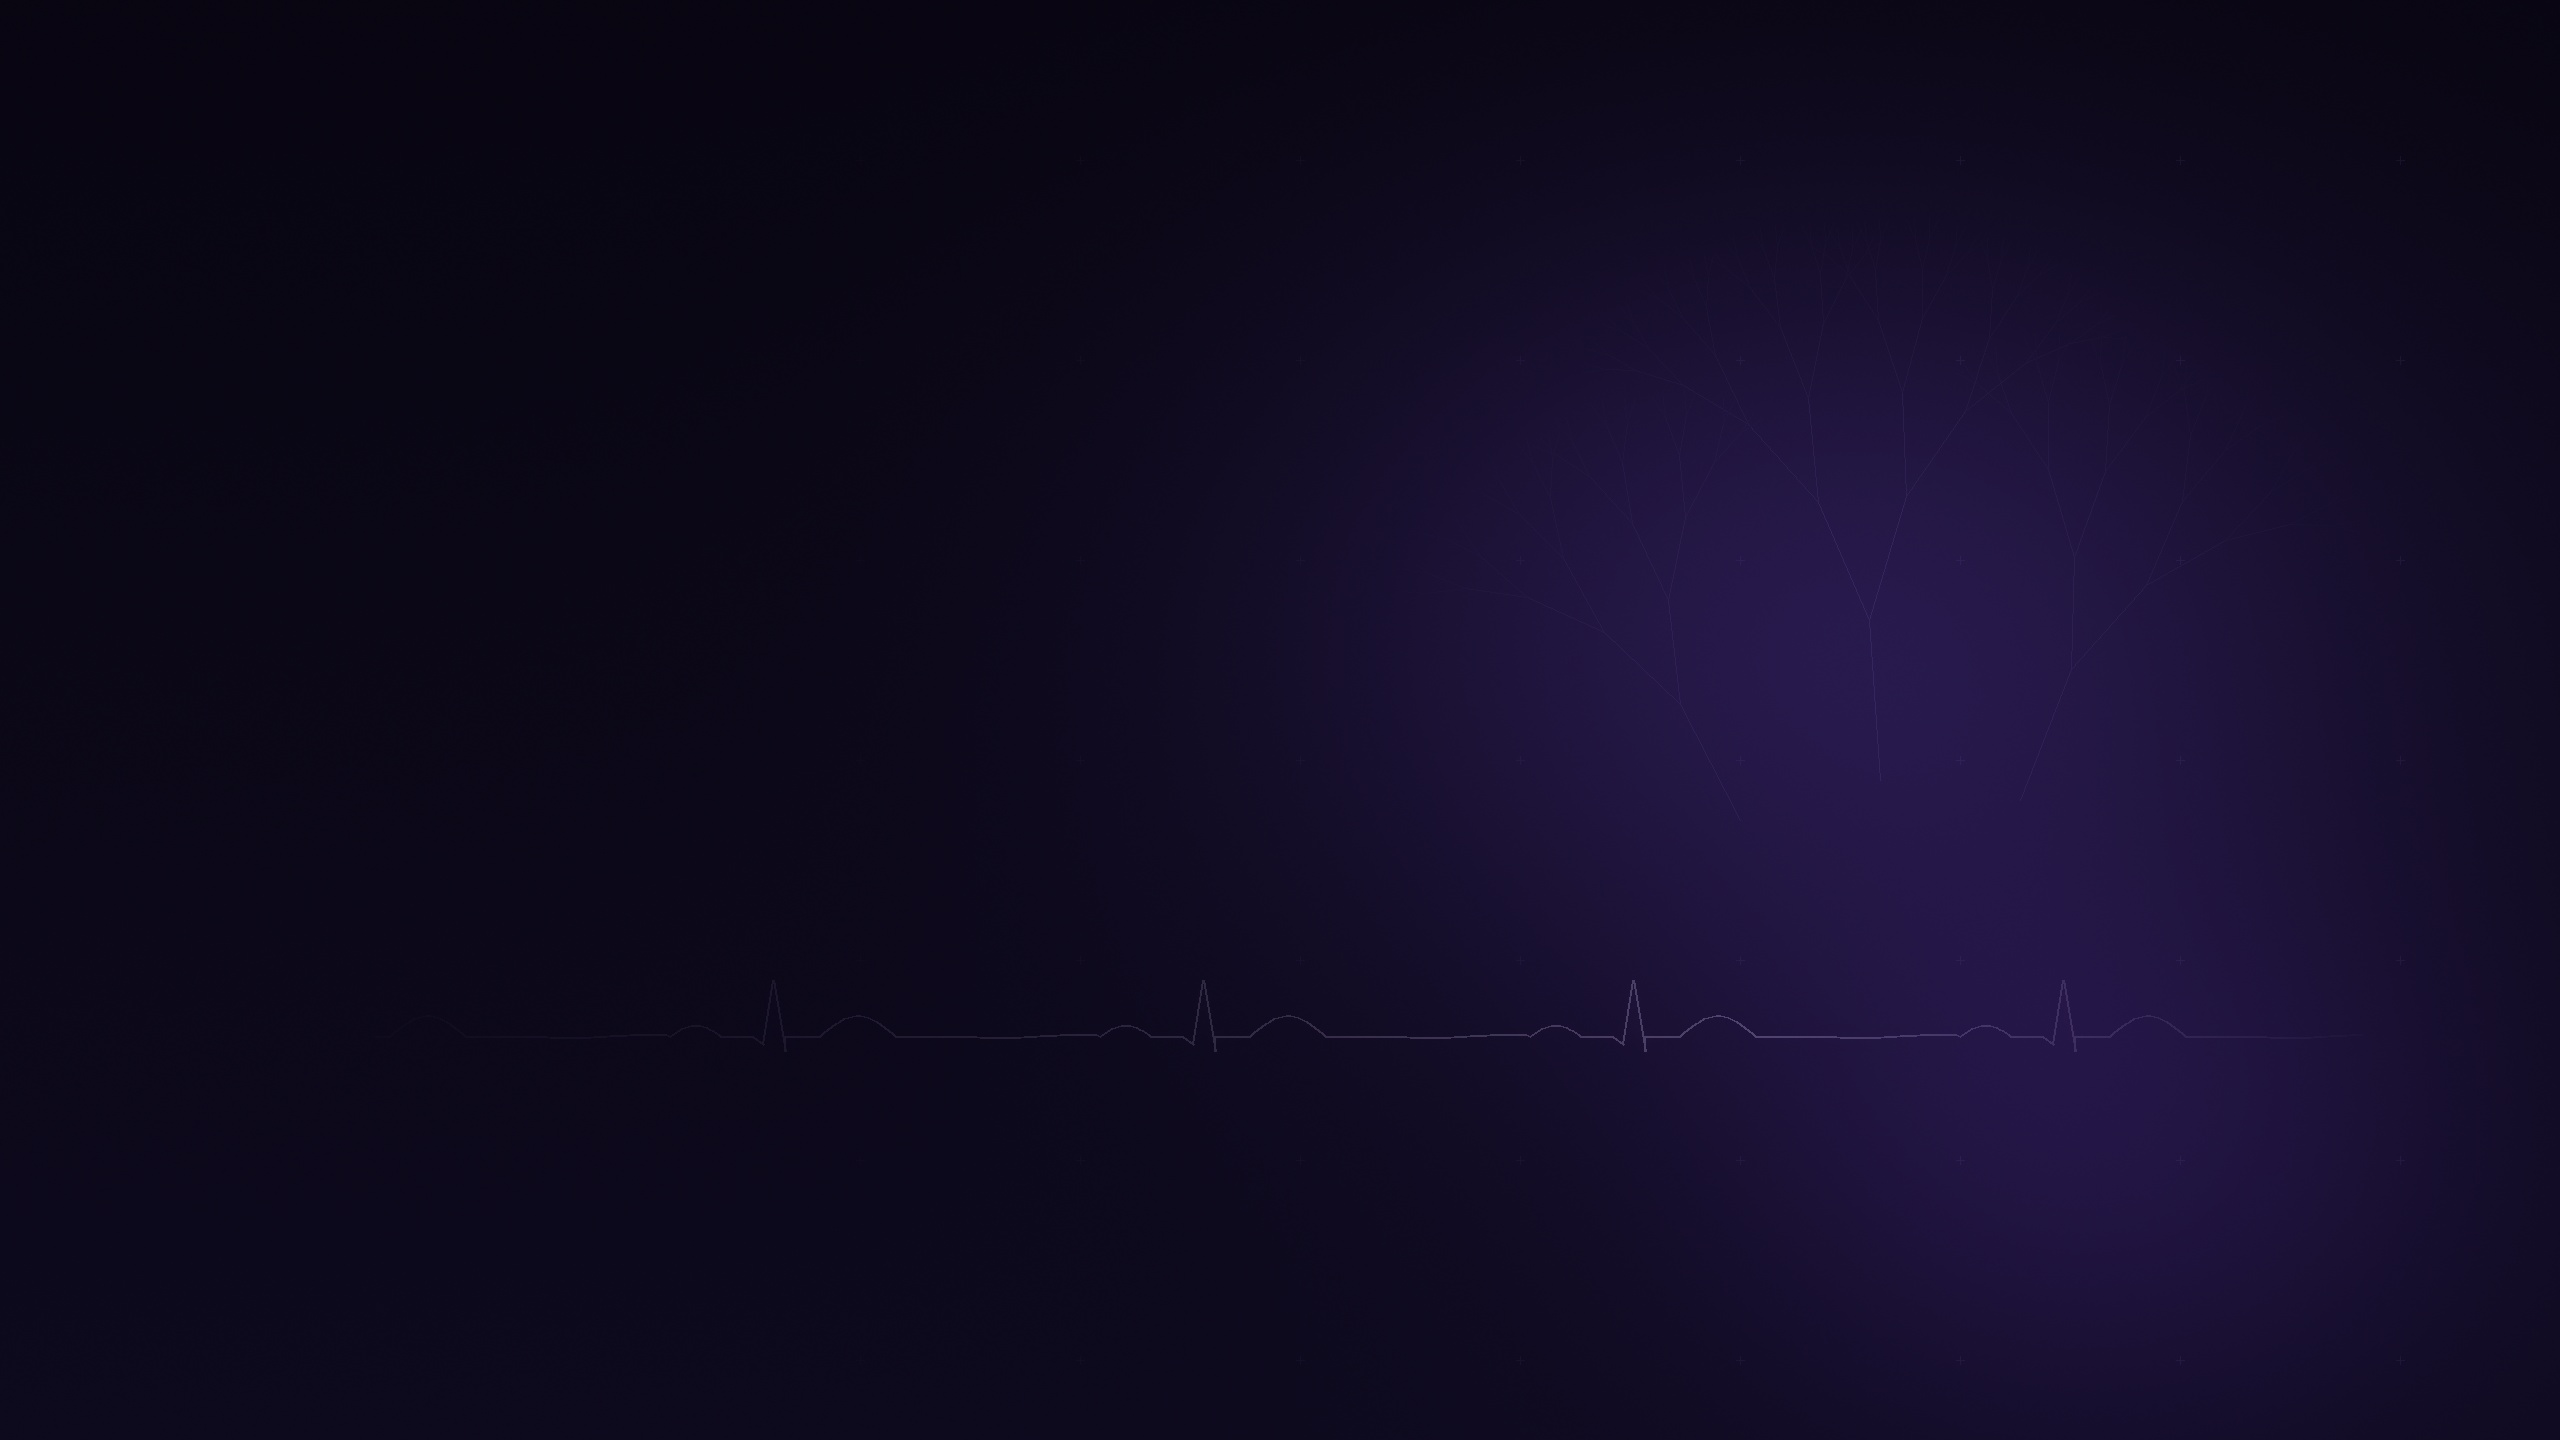
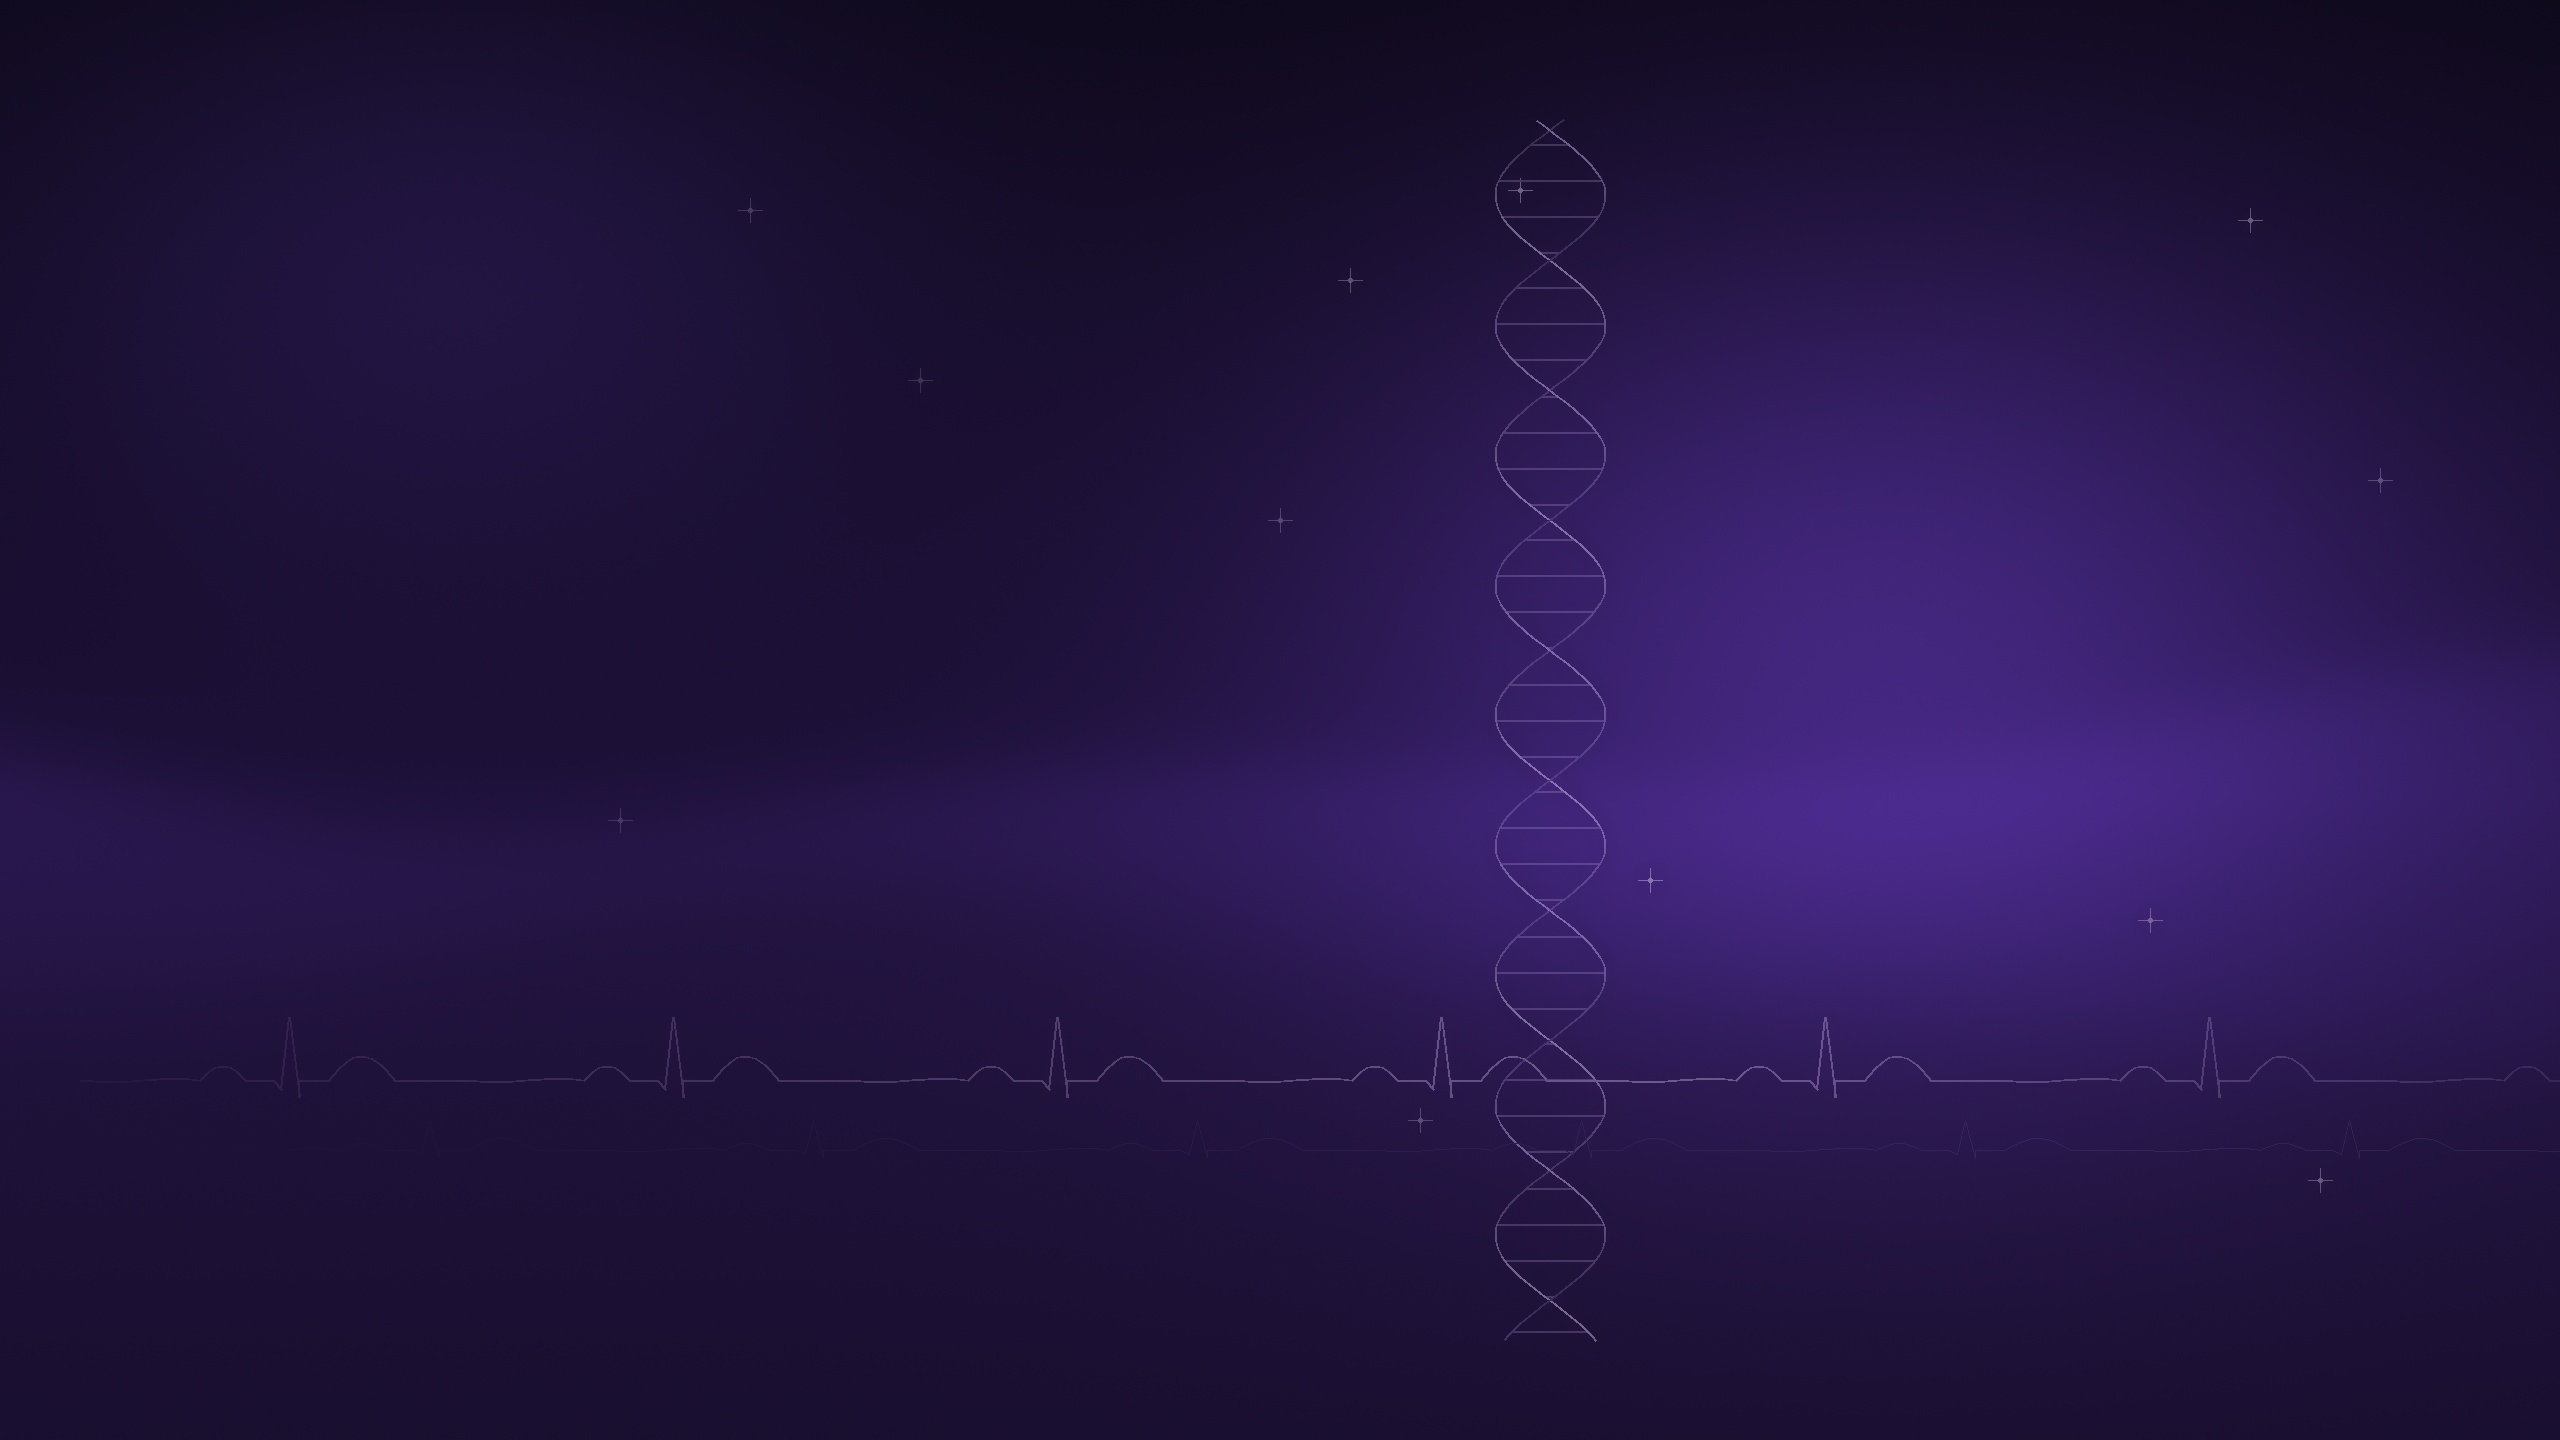
UI: High-resolution (1400x1594) anti-aliased lungs artwork and rich atmospheric medical landscape with DNA helix & ECG pulses

diff --git a/scripts/generate_rich_medical_wallpapers.py b/scripts/generate_rich_medical_wallpapers.py
@@ -1,0 +1,311 @@
+import math
+import numpy as np
+from PIL import Image, ImageDraw, ImageFilter
+
+W, H = 2560, 1440
+
+def make_ecg_wave(y_base, start_x, end_x, amp=45):
+    points = []
+    x = start_x
+    while x < end_x:
+        # Baseline
+        for dx in range(0, 120, 4):
+            points.append((x + dx, y_base + math.sin(dx * 0.05) * 1.5))
+        x += 120
+        if x >= end_x: break
+        
+        # P-wave
+        for dx in range(0, 45, 3):
+            rad = (dx / 45.0) * math.pi
+            points.append((x + dx, y_base - math.sin(rad) * (amp * 0.28)))
+        x += 45
+        if x >= end_x: break
+        
+        # PR segment
+        for dx in range(0, 30, 4):
+            points.append((x + dx, y_base))
+        x += 30
+        if x >= end_x: break
+        
+        # Q-dip
+        points.append((x + 6, y_base + amp * 0.18))
+        x += 6
+        if x >= end_x: break
+        
+        # R-peak
+        points.append((x + 8, y_base - amp * 1.25))
+        x += 8
+        if x >= end_x: break
+        
+        # S-dip
+        points.append((x + 10, y_base + amp * 0.35))
+        x += 10
+        if x >= end_x: break
+        
+        # ST segment
+        for dx in range(0, 30, 4):
+            points.append((x + dx, y_base))
+        x += 30
+        if x >= end_x: break
+        
+        # T-wave
+        for dx in range(0, 65, 3):
+            rad = (dx / 65.0) * math.pi
+            points.append((x + dx, y_base - math.sin(rad) * (amp * 0.48)))
+        x += 65
+        if x >= end_x: break
+        
+        # Baseline
+        for dx in range(0, 70, 4):
+            points.append((x + dx, y_base))
+        x += 70
+        
+    return points
+
+def draw_dna_helix(draw, glow_draw, cx, start_y, end_y, width=70, period=220, opacity_mult=1.0):
+    """Draws an authentic, elegant glowing DNA double-helix spiral with base-pair rungs."""
+    y = start_y
+    step = 4
+    pts_left = []
+    pts_right = []
+    rungs = []
+    
+    while y <= end_y:
+        angle = (y / float(period)) * math.pi * 2.0
+        sin_val = math.sin(angle)
+        cos_val = math.cos(angle)
+        
+        xl = cx + sin_val * width
+        xr = cx - sin_val * width
+        
+        depth_l = (cos_val + 1.0) * 0.5
+        depth_r = ((-cos_val) + 1.0) * 0.5
+        
+        pts_left.append((xl, y, depth_l))
+        pts_right.append((xr, y, depth_r))
+        
+        # Add base pair rungs periodically
+        if int(y) % 36 < step:
+            rungs.append((xl, y, xr, y, (depth_l + depth_r) * 0.5))
+            
+        y += step
+        
+    # Draw rungs
+    for x1, y1, x2, y2, depth in rungs:
+        a = int((depth * 0.25 + 0.15) * 255 * opacity_mult)
+        if a > 5:
+            glow_draw.line([(x1, y1), (x2, y2)], fill=(168, 85, 247, int(a * 0.6)), width=4)
+            draw.line([(x1, y1), (x2, y2)], fill=(220, 195, 255, a), width=2)
+            
+    # Draw strands
+    for i in range(len(pts_left) - 1):
+        x1, y1, d1 = pts_left[i]
+        x2, y2, d2 = pts_left[i+1]
+        a = int((d1 * 0.4 + 0.2) * 255 * opacity_mult)
+        if a > 5:
+            glow_draw.line([(x1, y1), (x2, y2)], fill=(168, 85, 247, int(a * 0.7)), width=5)
+            draw.line([(x1, y1), (x2, y2)], fill=(235, 215, 255, a), width=2)
+            
+    for i in range(len(pts_right) - 1):
+        x1, y1, d1 = pts_right[i]
+        x2, y2, d2 = pts_right[i+1]
+        a = int((d1 * 0.4 + 0.2) * 255 * opacity_mult)
+        if a > 5:
+            glow_draw.line([(x1, y1), (x2, y2)], fill=(139, 92, 246, int(a * 0.7)), width=5)
+            draw.line([(x1, y1), (x2, y2)], fill=(215, 195, 255, a), width=2)
+
+def generate_dark():
+    print("Synthesizing rich, atmospheric dark medical landscape...")
+    arr = np.zeros((H, W, 3), dtype=np.float32)
+    y_coords, x_coords = np.mgrid[0:H, 0:W]
+    
+    # 1. Base Multi-Stop Twilight Gradient (Deep Navy/Obsidian #0B0818 -> Royal Amethyst #1E1238 -> Deep Indigo #140C28)
+    norm_y = y_coords / float(H)
+    norm_x = x_coords / float(W)
+    
+    # Rich deep palette
+    top_c = np.array([14.0, 9.0, 26.0])       # #0E091A
+    mid_c = np.array([28.0, 16.0, 54.0])      # #1C1036
+    bot_c = np.array([10.0, 7.0, 20.0])       # #0A0714
+    
+    # Vertical blend
+    for c in range(3):
+        upper_blend = top_c[c] * (1.0 - norm_y * 1.8) + mid_c[c] * (norm_y * 1.8)
+        lower_blend = mid_c[c] * (1.0 - (norm_y - 0.55) * 2.2) + bot_c[c] * ((norm_y - 0.55) * 2.2)
+        arr[:, :, c] = np.where(norm_y < 0.55, upper_blend, lower_blend)
+        
+    # 2. Layered Ethereal Silhouettes (Gentle, soft-focus rolling ridges that fade into mist)
+    # Ridge 1: Distant soft ridge (y ~ 750)
+    wave1 = np.sin(x_coords * 0.0018) * 60 + np.sin(x_coords * 0.0042) * 35 + 750
+    mask1 = 1.0 / (1.0 + np.exp(-(y_coords - wave1) * 0.04))
+    arr[:, :, 0] += mask1 * 14.0
+    arr[:, :, 1] += mask1 * 8.0
+    arr[:, :, 2] += mask1 * 26.0
+    
+    # Ridge 2: Mid-ground misty ridge (y ~ 980)
+    wave2 = np.cos(x_coords * 0.0022 + 1.2) * 75 + np.sin(x_coords * 0.0055) * 25 + 980
+    mask2 = 1.0 / (1.0 + np.exp(-(y_coords - wave2) * 0.035))
+    arr[:, :, 0] = arr[:, :, 0] * (1.0 - mask2 * 0.45) + (mask2 * 12.0)
+    arr[:, :, 1] = arr[:, :, 1] * (1.0 - mask2 * 0.45) + (mask2 * 7.0)
+    arr[:, :, 2] = arr[:, :, 2] * (1.0 - mask2 * 0.45) + (mask2 * 22.0)
+    
+    # 3. Luminous Royal Lavender Nebula Aura behind the Botanical Lungs (center 1880, 640)
+    dist_lung = ((x_coords - 1880) ** 2) / (720.0 ** 2) + ((y_coords - 640) ** 2) / (560.0 ** 2)
+    nebula = np.exp(-dist_lung * 1.6)
+    arr[:, :, 0] += nebula * 42.0
+    arr[:, :, 1] += nebula * 24.0
+    arr[:, :, 2] += nebula * 78.0
+    
+    # Secondary ambient glow on left top for balanced lighting
+    dist_left = ((x_coords - 450) ** 2) / (650.0 ** 2) + ((y_coords - 250) ** 2) / (450.0 ** 2)
+    left_aura = np.exp(-dist_left * 2.2)
+    arr[:, :, 0] += left_aura * 15.0
+    arr[:, :, 1] += left_aura * 10.0
+    arr[:, :, 2] += left_aura * 30.0
+    
+    # Micro-dither
+    noise = (np.random.rand(H, W, 3) - 0.5) * 1.2
+    arr = np.clip(arr + noise, 0, 255).astype(np.uint8)
+    
+    base_img = Image.fromarray(arr, mode='RGB')
+    
+    # Overlays: Vector line art & medical elements
+    overlay = Image.new('RGBA', (W, H), (0, 0, 0, 0))
+    glow_overlay = Image.new('RGBA', (W, H), (0, 0, 0, 0))
+    draw = ImageDraw.Draw(overlay)
+    glow_draw = ImageDraw.Draw(glow_overlay)
+    
+    # 1. Glowing Medical Cross & Telemetry Star Nodes
+    stars = [
+        (1350, 280, 0.28), (1520, 190, 0.35), (2250, 220, 0.32),
+        (2380, 480, 0.25), (1280, 520, 0.22), (1650, 880, 0.38),
+        (2150, 920, 0.30), (1420, 1120, 0.24), (2320, 1180, 0.30),
+        (750, 210, 0.18), (920, 380, 0.15), (620, 820, 0.16)
+    ]
+    for sx, sy, op in stars:
+        a = int(op * 255)
+        # 4-point medical sparkle star
+        sz = 8
+        glow_draw.ellipse([sx - sz, sy - sz, sx + sz, sy + sz], fill=(168, 85, 247, int(a * 0.7)))
+        draw.line([(sx - sz - 4, sy), (sx + sz + 4, sy)], fill=(240, 225, 255, a), width=1)
+        draw.line([(sx, sy - sz - 4), (sx, sy + sz + 4)], fill=(240, 225, 255, a), width=1)
+        draw.ellipse([sx - 2, sy - 2, sx + 2, sy + 2], fill=(255, 255, 255, a))
+        
+    # 2. Glowing DNA Double-Helix (delicately floating in the upper right atmospheric mist)
+    draw_dna_helix(draw, glow_draw, cx=1550, start_y=120, end_y=1340, width=55, period=260, opacity_mult=0.75)
+    
+    # 3. Luminous ECG Heartbeat Telemetry Waveform across bottom (y=1080)
+    ecg_y = 1080
+    ecg_pts = make_ecg_wave(ecg_y, 80, W + 120, amp=50)
+    for i in range(len(ecg_pts) - 1):
+        p1, p2 = ecg_pts[i], ecg_pts[i+1]
+        mid_x = (p1[0] + p2[0]) * 0.5
+        
+        # Smooth envelope across the screen
+        if mid_x < 150:
+            env = 0.05
+        elif mid_x < 1650:
+            env = 0.08 + ((mid_x - 150) / 1500.0) * 0.42  # rises up to ~0.50
+        else:
+            env = 0.50 - ((mid_x - 1650) / 900.0) * 0.35  # stays visible
+            
+        a_glow = int(env * 85)
+        a_core = int(env * 180)
+        
+        glow_draw.line([p1, p2], fill=(168, 85, 247, a_glow), width=6)
+        draw.line([p1, p2], fill=(230, 210, 255, a_core), width=2)
+        
+    # 4. Secondary faint cardiac lead trace (faded parallel rhythm line at y=1140)
+    lead2_pts = make_ecg_wave(1150, 220, W + 100, amp=24)
+    for i in range(len(lead2_pts) - 1):
+        p1, p2 = lead2_pts[i], lead2_pts[i+1]
+        mid_x = (p1[0] + p2[0]) * 0.5
+        env = max(0.02, min(0.24, (mid_x / float(W)) * 0.28))
+        a_glow = int(env * 45)
+        a_core = int(env * 95)
+        glow_draw.line([p1, p2], fill=(124, 58, 237, a_glow), width=4)
+        draw.line([p1, p2], fill=(200, 180, 245, a_core), width=1)
+        
+    # Blur glow layer
+    glow_blurred = glow_overlay.filter(ImageFilter.GaussianBlur(radius=8))
+    
+    img = Image.alpha_composite(base_img.convert('RGBA'), glow_blurred)
+    img = Image.alpha_composite(img, overlay)
+    
+    final_rgb = img.convert('RGB')
+    final_rgb.save('Nightingale/src/apk/bg-web-landscape-dark.jpg', 'JPEG', quality=95)
+    print("Rich dark medical wallpaper generated successfully.")
+
+def generate_light():
+    print("Synthesizing rich, atmospheric light medical landscape...")
+    arr = np.zeros((H, W, 3), dtype=np.float32)
+    y_coords, x_coords = np.mgrid[0:H, 0:W]
+    
+    norm_y = y_coords / float(H)
+    norm_x = x_coords / float(W)
+    
+    # Crisp, elegant Nordic medical palette: #FAF8FE -> #EDE6FA -> #E3DAF6
+    top_c = np.array([251.0, 249.0, 254.0])
+    mid_c = np.array([238.0, 230.0, 250.0])
+    bot_c = np.array([228.0, 218.0, 246.0])
+    
+    for c in range(3):
+        upper_blend = top_c[c] * (1.0 - norm_y * 1.8) + mid_c[c] * (norm_y * 1.8)
+        lower_blend = mid_c[c] * (1.0 - (norm_y - 0.55) * 2.2) + bot_c[c] * ((norm_y - 0.55) * 2.2)
+        arr[:, :, c] = np.where(norm_y < 0.55, upper_blend, lower_blend)
+        
+    # Layered ridges in subtle pastel tones
+    wave1 = np.sin(x_coords * 0.0018) * 60 + np.sin(x_coords * 0.0042) * 35 + 750
+    mask1 = 1.0 / (1.0 + np.exp(-(y_coords - wave1) * 0.04))
+    arr[:, :, 0] -= mask1 * 8.0
+    arr[:, :, 1] -= mask1 * 12.0
+    arr[:, :, 2] -= mask1 * 3.0
+    
+    wave2 = np.cos(x_coords * 0.0022 + 1.2) * 75 + np.sin(x_coords * 0.0055) * 25 + 980
+    mask2 = 1.0 / (1.0 + np.exp(-(y_coords - wave2) * 0.035))
+    arr[:, :, 0] -= mask2 * 10.0
+    arr[:, :, 1] -= mask2 * 14.0
+    arr[:, :, 2] -= mask2 * 4.0
+    
+    # Soft lavender radiance on right
+    dist_lung = ((x_coords - 1880) ** 2) / (720.0 ** 2) + ((y_coords - 640) ** 2) / (560.0 ** 2)
+    nebula = np.exp(-dist_lung * 1.6)
+    arr[:, :, 0] -= nebula * 18.0
+    arr[:, :, 1] -= nebula * 24.0
+    arr[:, :, 2] -= nebula * 6.0
+    
+    noise = (np.random.rand(H, W, 3) - 0.5) * 0.9
+    arr = np.clip(arr + noise, 0, 255).astype(np.uint8)
+    base_img = Image.fromarray(arr, mode='RGB')
+    
+    overlay = Image.new('RGBA', (W, H), (0, 0, 0, 0))
+    glow_overlay = Image.new('RGBA', (W, H), (0, 0, 0, 0))
+    draw = ImageDraw.Draw(overlay)
+    glow_draw = ImageDraw.Draw(glow_overlay)
+    
+    # DNA Helix in soft violet
+    draw_dna_helix(draw, glow_draw, cx=1550, start_y=120, end_y=1340, width=55, period=260, opacity_mult=0.55)
+    
+    # ECG line in soft violet
+    ecg_y = 1080
+    ecg_pts = make_ecg_wave(ecg_y, 80, W + 120, amp=46)
+    for i in range(len(ecg_pts) - 1):
+        p1, p2 = ecg_pts[i], ecg_pts[i+1]
+        mid_x = (p1[0] + p2[0]) * 0.5
+        env = max(0.08, min(0.42, 0.08 + (mid_x / float(W)) * 0.36))
+        a_glow = int(env * 65)
+        a_core = int(env * 150)
+        glow_draw.line([p1, p2], fill=(124, 58, 237, a_glow), width=5)
+        draw.line([p1, p2], fill=(108, 79, 214, a_core), width=2)
+        
+    glow_blurred = glow_overlay.filter(ImageFilter.GaussianBlur(radius=7))
+    img = Image.alpha_composite(base_img.convert('RGBA'), glow_blurred)
+    img = Image.alpha_composite(img, overlay)
+    
+    final_rgb = img.convert('RGB')
+    final_rgb.save('Nightingale/src/apk/bg-web-landscape-light.jpg', 'JPEG', quality=95)
+    print("Rich light medical wallpaper generated successfully.")
+
+if __name__ == '__main__':
+    generate_dark()
+    generate_light()
